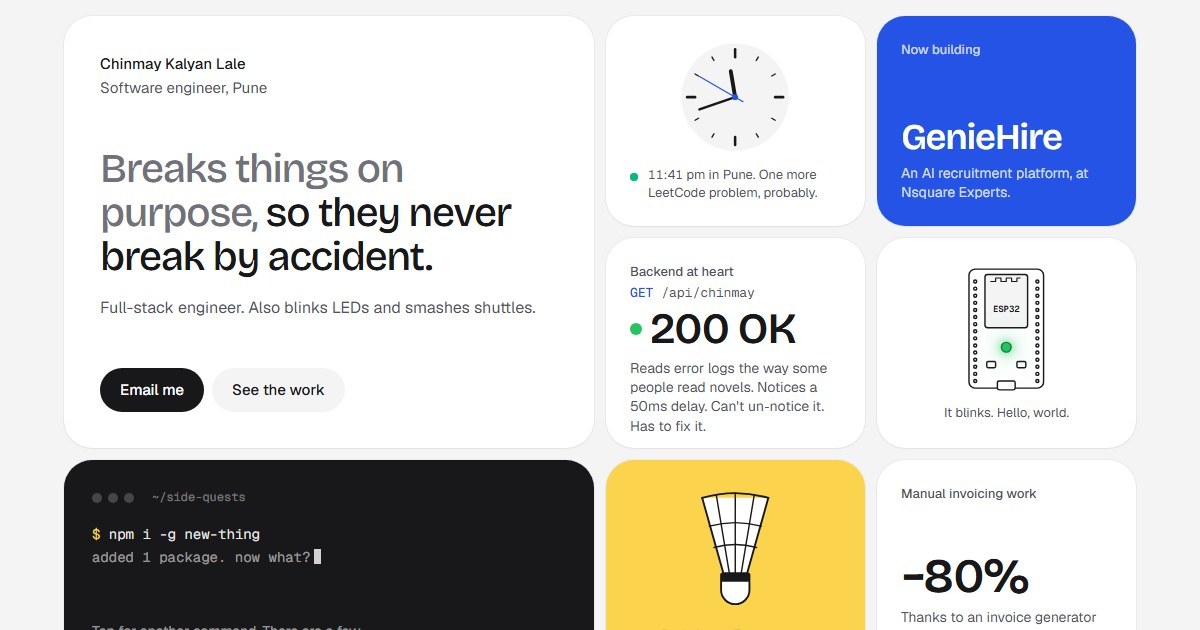
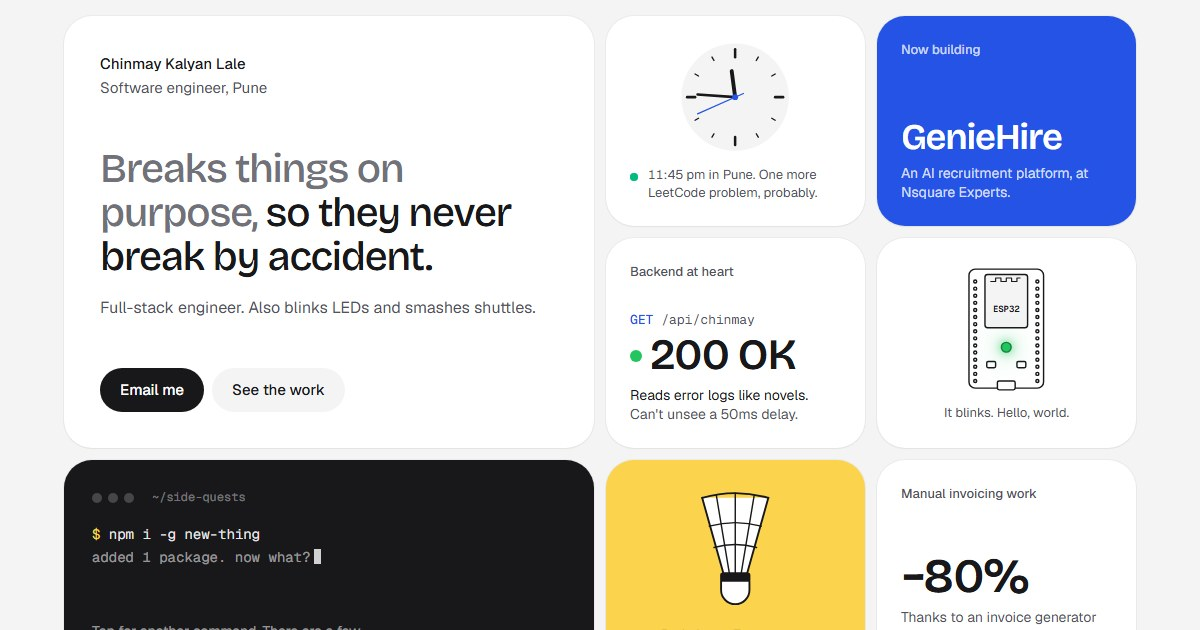
Backend tile: two short lines instead of a paragraph
"Reads error logs like novels." / "Can't unsee a 50ms delay."

Changed region(s): [[0.5242, 0.4524, 0.6783, 0.6937], [0.5858, 0.1206, 0.6167, 0.181]]

diff --git a/src/components/sections/Bento.tsx b/src/components/sections/Bento.tsx
@@ -106,9 +106,9 @@ export default function Bento() {
               <span className="h-3 w-3 shrink-0 rounded-full bg-led" aria-hidden="true" />
               200 OK
             </p>
-            <p className="mt-2 text-[14px] leading-snug text-ink-2">
-              Reads error logs the way some people read novels. Notices a 50ms delay. Can&apos;t un‑notice it. Has to
-              fix it.
+            <p className="mt-2 text-[14px] leading-snug">
+              <span className="block text-ink">Reads error logs like novels.</span>
+              <span className="block text-ink-2">Can&apos;t unsee a 50ms delay.</span>
             </p>
           </div>
         </div>
